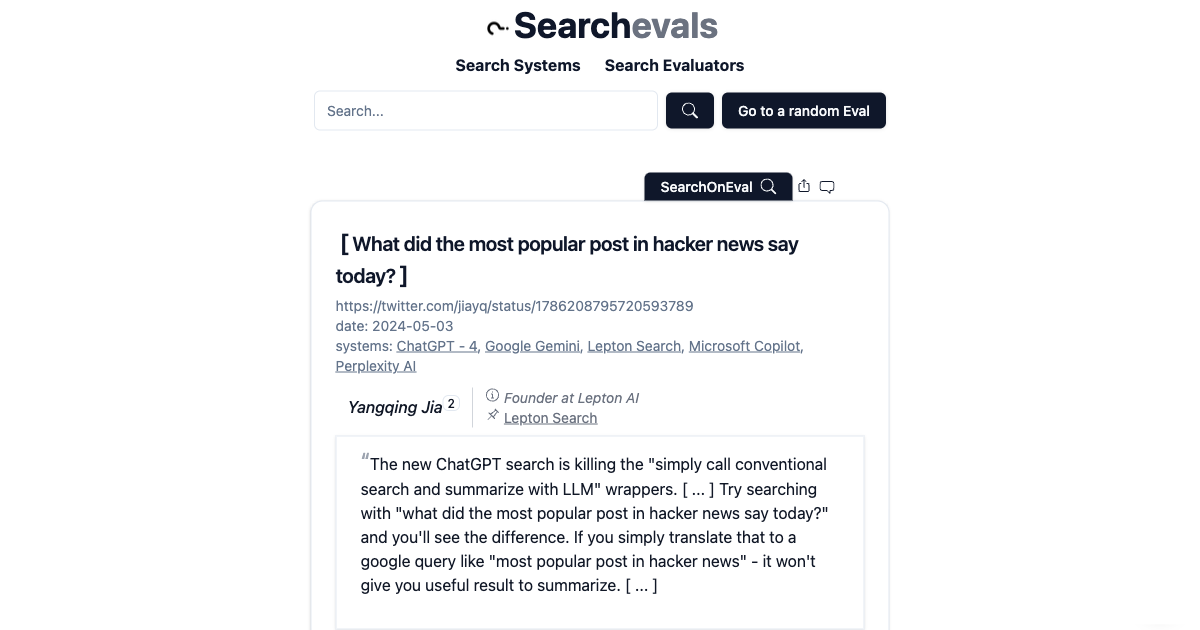
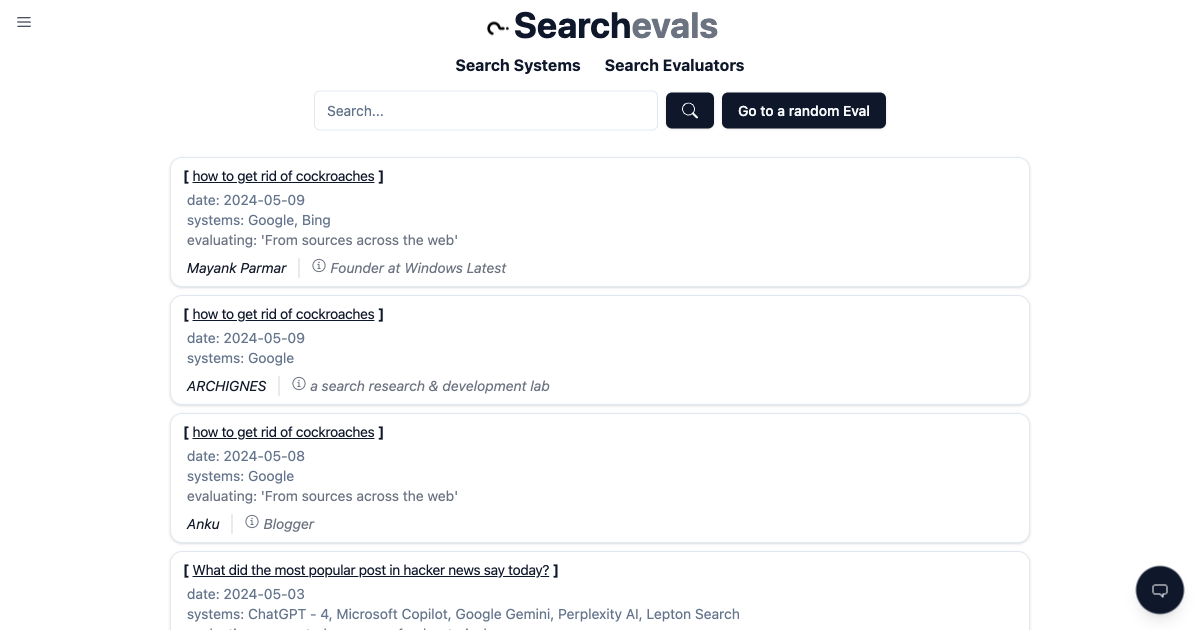
adjust screenshots script, add screenshots, adjust useWindowResize

diff --git a/scripts/takeScreenshots.ts b/scripts/takeScreenshots.ts
@@ -51,35 +51,39 @@ const captureCardScreenshot = async (url, page, outputPath, outputPathCropped) =
             }
         }
     });
+    const evalId = url.split('card/')[1]
+    console.log(`  - evalId: ${evalId}`)
 
-    const element = await page.$('#search-eval-card-div');
+    const element = await page.$(`#search-eval-card-${evalId}`);
     if (element) {
         await element.screenshot({ path: outputPath });
     } else {
-        console.error(`Could not find the element '#search-eval-card-div' on the page: ${url}`);
+        console.error(`Could not find the element '#search-eval-card-${evalId}' on the page: ${url}`);
     }
 
     await extractResize(url, outputPath, outputPathCropped)
 };
 
 const extractResize = async (url, outputPath, outputPathCropped) => {
-    await sharp(outputPath)
-        .metadata()
-        .then(({ width, height }) => {
-            // Ensure the image is large enough to be cropped and resized as desired
-            return sharp(outputPath)
-                .extract({ left: 1, top: 1, width: width - 2, height: height - 2 }) // Adjust based on the actual border size
-                .resize(1200, 630, {
-                    fit: 'cover',
-                    position: 'top',
-                })
-                .toFile(outputPathCropped);
-        })
-        .then(() => {
-            console.log(`Cropped and resized screenshot:\n  - url: ${url}\n  - file: ${outputPathCropped}`);
-        })
-        .catch(err => console.error("Error in cropping and resizing image:", err));
-
+    try {
+        await sharp(outputPath)
+            .metadata()
+            .then(({ width, height }) => {
+                // Ensure the image is large enough to be cropped and resized as desired
+                return sharp(outputPath)
+                    .extract({ left: 1, top: 1, width: width - 2, height: height - 2 }) // Adjust based on the actual border size
+                    .resize(1200, 630, {
+                        fit: 'cover',
+                        position: 'top',
+                    })
+                    .toFile(outputPathCropped);
+            })
+            .then(() => {
+                console.log(`Cropped and resized screenshot:\n  - url: ${url}\n  - file: ${outputPathCropped}`);
+            });
+    } catch (err) {
+        console.error("Error in cropping and resizing image:", err);
+    }
 };
 const addLogoToImage = async (original_image, searchevals_logo) => {
     // Read the original image and the logo

diff --git a/src/components/useWindowResize.tsx b/src/components/useWindowResize.tsx
@@ -1,9 +1,14 @@
-import { useState, useLayoutEffect } from "react";
+import { useState, useEffect } from "react";
+import { useIsomorphicLayoutEffect } from "react-use";
 
 export const useWindowResize = () => {
   const [size, setSize] = useState([0, 0]);
 
-  useLayoutEffect(() => {
+  useEffect(() => {
+    setSize([window.innerWidth, window.innerHeight]);
+  }, []);
+
+  useIsomorphicLayoutEffect(() => {
     function updateSize() {
       setSize([window.innerWidth, window.innerHeight]);
     }

diff --git a/src/components/Footer.tsx b/src/components/Footer.tsx
@@ -2,7 +2,7 @@ import { GitHubLogoIcon, TwitterLogoIcon, LinkedInLogoIcon } from '@radix-ui/rea
 import { Button } from "./ui/button";
 import { Input } from "./ui/input";
 
-const lastUpdated = "2024-05-09T23:00:11.104Z";
+const lastUpdated = "2024-05-10T00:11:52.246Z";
 
 const Footer: React.FC = () => {
   return (

diff --git a/src/components/Feed.tsx b/src/components/Feed.tsx
@@ -70,6 +70,7 @@ const Feed: React.FC = () => {
     return null;
   }
 
+  
   return (
     <div className="w-full max-w-[900px] mx-auto">
       <div id="feed" className="flex mt-5 flex-col items-center">
